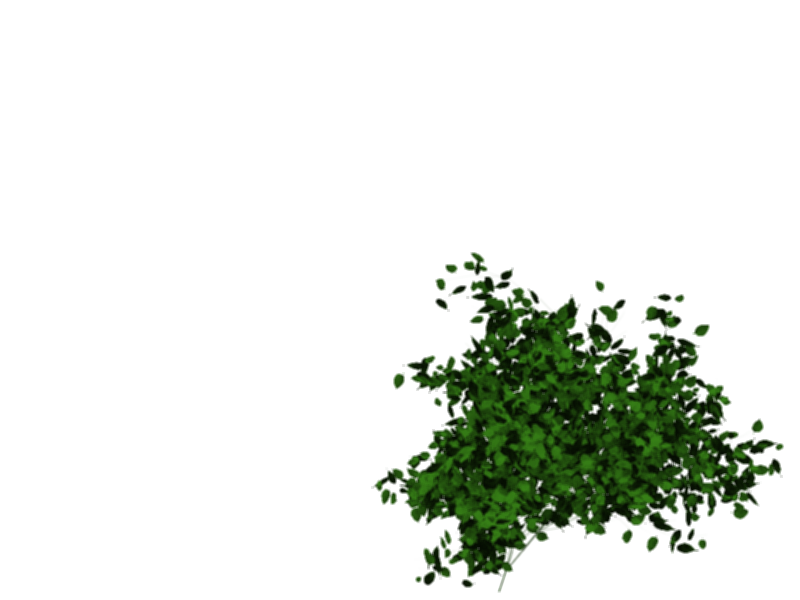
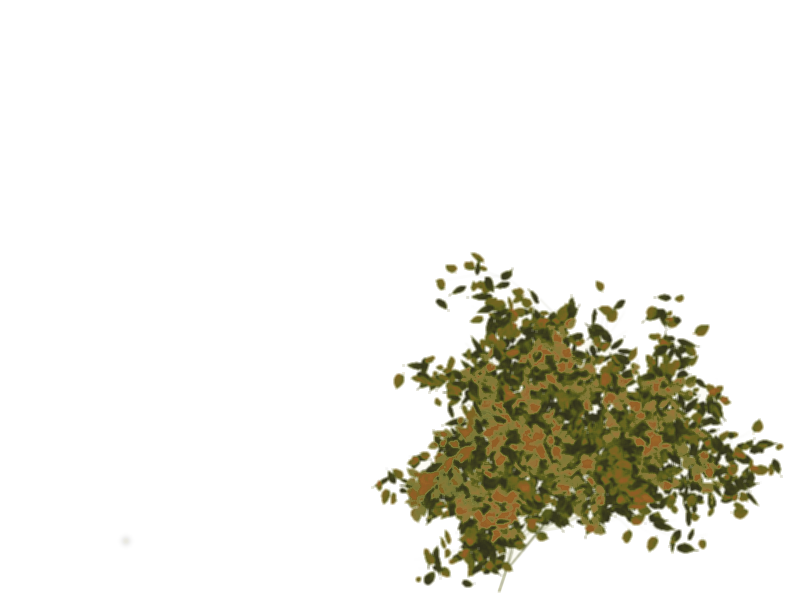
sunround

Changed region(s): [[0.4688, 0.42, 0.9688, 0.99]]

diff --git a/client/webgl2.js b/client/webgl2.js
@@ -409,8 +409,8 @@ THREE.PointerLockControls = function ( camera ) {
         var movementX = event.movementX || event.mozMovementX || event.webkitMovementX || 0;
         var movementY = event.movementY || event.mozMovementY || event.webkitMovementY || 0;
 
-        yawObject.rotation.y -= movementX * 0.002;
-        pitchObject.rotation.x -= movementY * 0.002;
+        yawObject.rotation.y -= movementX * 0.004;
+        pitchObject.rotation.x -= movementY * 0.004;
 
         pitchObject.rotation.x = Math.max( - PI_2, Math.min( PI_2, pitchObject.rotation.x ) );
 
@@ -940,6 +940,9 @@ var grassMesh, grassGeometry, grassMaterial;
             var x = naturePos[0][i];
             var z = naturePos[1][i];
 if (getH(x/4,-z/4) < -5 ) continue;
+            faceMaterial.map.wrapS = faceMaterial.map.wrapT = THREE.RepeatWrapping;
+            faceMaterial.map.repeat.set( 1, 1 );
+
             var morph = new THREE.Mesh( geometry, faceMaterial );
             var s = THREE.Math.randFloat( 0.00075, 0.001 );
             morph.scale.set( s, s, s );
@@ -974,7 +977,10 @@ if (getH(x/4,-z/4) < -5 ) continue;
             var z = naturePos[1][i];
 if (getH(x/4,-z/4) < -5 ) continue;
 
-            var faceMaterial = new THREE.MeshBasicMaterial({ map: THREE.ImageUtils.loadTexture( 'branch1.png'), transparent: true, depthWrite: false, depthTest: true});
+            var faceMaterial = new THREE.MeshBasicMaterial({ map: leafsprite, transparent: true, depthWrite: false, depthTest: true});
+            faceMaterial.map.wrapS = faceMaterial.map.wrapT = THREE.RepeatWrapping;
+            faceMaterial.map.repeat.set( 0.7,0.7 );
+
             var morph2 = new THREE.Mesh( geometry, faceMaterial );
             var s = THREE.Math.randFloat( 0.00075, 0.001 );
             morph2.scale.set( s, s, s );
@@ -992,9 +998,9 @@ if (getH(x/4,-z/4) < -5 ) continue;
 
 function loadNature() {     
     var loader = new THREE.JSONLoader();
-    loadtrees(loader,10,5,'sprite1',1,0,199,"amplitude","previousRender",attributesS6,"displacement",10,10,10,1  );
-    //loadtrees(loader,3.4,5,'sprite1',1,200,399,"amplitude","previousRender",attributesS6,"displacement",10,10,3,1);
-    //loadtrees(loader,6,20,'sprite2',2,400,500,"amplitude2","previousRender2",attributesS7,"displacement2");
+    loadtrees(loader,10,5,sprite1,1,0,199,"amplitude","previousRender",attributesS6,"displacement",10,10,10,1  );
+    loadtrees(loader,3.4,5,sprite2,1,200,399,"amplitude","previousRender",attributesS6,"displacement",10,10,3,1);
+    loadtrees(loader,20,15,sprite3,1,400,500,"amplitude","previousRender",attributesS6,"displacement",30,3,5,1);
 }
 
 function onWindowResize( event ) {
@@ -1021,6 +1027,13 @@ for ( var i = 0, il = grassGeometry.vertices.length / 2 - 1; i <= il; i ++ ) {
 */
 //    controls.update( Date.now() - time );
     //time = Date.now() - time ;
+
+ 
+//Sunlight.position.x=Math.floor(Math.cos( clock.getDelta() ) * 200);
+//lensFlare.position.x=Math.floor(Math.cos( clock.getDelta() ) * 200);
+//Sun.position.x = Math.floor(Math.cos( clock.elapsedTime ) * 200);
+//  Sun.position.y = Math.floor(Math.sin( clock.getDelta() ) * 200);
+
     Sea.render();
     render();
 }
@@ -1202,6 +1215,13 @@ for (var prop in myJSONUserPosArray2) {
        lastposs[prop]=myJSONUserPosArray2[prop]
 
     }
+    Sun.position.x = (Math.cos( clock.elapsedTime /100) * 390)+5;
+    Sunlight.position.x = (Math.cos( clock.elapsedTime /100) * 390);
+    lensFlare.position.x = (Math.cos( clock.elapsedTime /100) * 390);
+    Sun.position.y = (Math.sin( clock.elapsedTime /100) * 390)+5;
+    Sunlight.position.y = (Math.sin( clock.elapsedTime /100) * 390);
+    lensFlare.position.y = (Math.sin( clock.elapsedTime /100) * 390);
+
     renderer.render( scene, camera );
 
     time = Date.now();
@@ -1317,7 +1337,7 @@ function setUniforms() {
 var _leaves  = new Array();
 var _trees  = new Array();
 var skyUniforms;
-var Sea;
+var Sea,Sun,Sunlight,lensFlare ;
 var android;
 initScene = function() {
     clock = new THREE.Clock();
@@ -1437,25 +1457,25 @@ view-source:http://threejs.org/examples/webgl_lensflares.html
     );
 
     Sun_material.opacity = 0.6;
-    var Sun = new THREE.Mesh(Sun_geometry,Sun_material);
+    Sun = new THREE.Mesh(Sun_geometry,Sun_material);
     var textureFlare0 = THREE.ImageUtils.loadTexture( "lensflare0.png" );
    // var textureFlare2 = THREE.ImageUtils.loadTexture( "lensflare1.png" );
    // var textureFlare3 = THREE.ImageUtils.loadTexture( "lensflare2.png" );
-    addLight( 0.55, 0.9, 0.5, 390, 10, 0 );
-    Sun.position.set( 395,10,0 );
+    addLight( 0.55, 0.9, 0.5, 190, 50, 0 );
+    Sun.position.set( 195,50,0 );
     scene.add( Sun );
 
     function addLight( h, s, l, x, y, z ) {
 
-        var light = new THREE.PointLight( 0xffffff, 1.5, 4500 );
-        light.color.setHSL( h, s, l );
-        light.position.set( x, y, z );
-        scene.add( light );
+        Sunlight = new THREE.PointLight( 0xffffff, 1.5, 4500 );
+        Sunlight.color.setHSL( h, s, l );
+        Sunlight.position.set( x, y, z );
+        scene.add( Sunlight );
 
         var flareColor = new THREE.Color( 0xffffff );
         flareColor.setHSL( h, s, l + 0.5 );
 
-        var lensFlare = new THREE.LensFlare( textureFlare0, 700, 0.0, THREE.AdditiveBlending, flareColor );
+        lensFlare = new THREE.LensFlare( textureFlare0, 700, 0.0, THREE.AdditiveBlending, flareColor );
 /*
         lensFlare.add( textureFlare2, 512, 0.0, THREE.AdditiveBlending );
         lensFlare.add( textureFlare2, 512, 0.0, THREE.AdditiveBlending );
@@ -1467,7 +1487,7 @@ view-source:http://threejs.org/examples/webgl_lensflares.html
         lensFlare.add( textureFlare3, 70, 1.0, THREE.AdditiveBlending );
 */
         lensFlare.customUpdateCallback = lensFlareUpdateCallback;
-        lensFlare.position = light.position;
+        lensFlare.position = Sunlight.position;
 
         scene.add( lensFlare );
 
@@ -1498,6 +1518,7 @@ view-source:http://threejs.org/examples/webgl_lensflares.html
     // MISC
     sprite1 = THREE.ImageUtils.loadTexture( "branch1.png", null );
     sprite2 = THREE.ImageUtils.loadTexture( "branch2.png", null );
+    sprite3 = THREE.ImageUtils.loadTexture( "branch3.png", null );
 
     camera.position.set( myPos.x,myPos.y,myPos.z);
     

diff --git a/server.js b/server.js
@@ -305,6 +305,7 @@ fu.get("/jquery-1.2.6.min.js", fu.staticHandler("jquery-1.2.6.min.js"));
 fu.get("/three.js", fu.staticHandler("three.js"));
 fu.get("/branch1.png", fu.staticHandler("branch1.png"));
 fu.get("/branch2.png", fu.staticHandler("branch2.png"));
+fu.get("/branch3.png", fu.staticHandler("branch3.png"));
 fu.get("/monster.jpg", fu.staticHandler("monster.jpg"));
 fu.get("/texture.jpg", fu.staticHandler("texture.jpg"));
 fu.get("/cloud.png", fu.staticHandler("cloud.png"));
